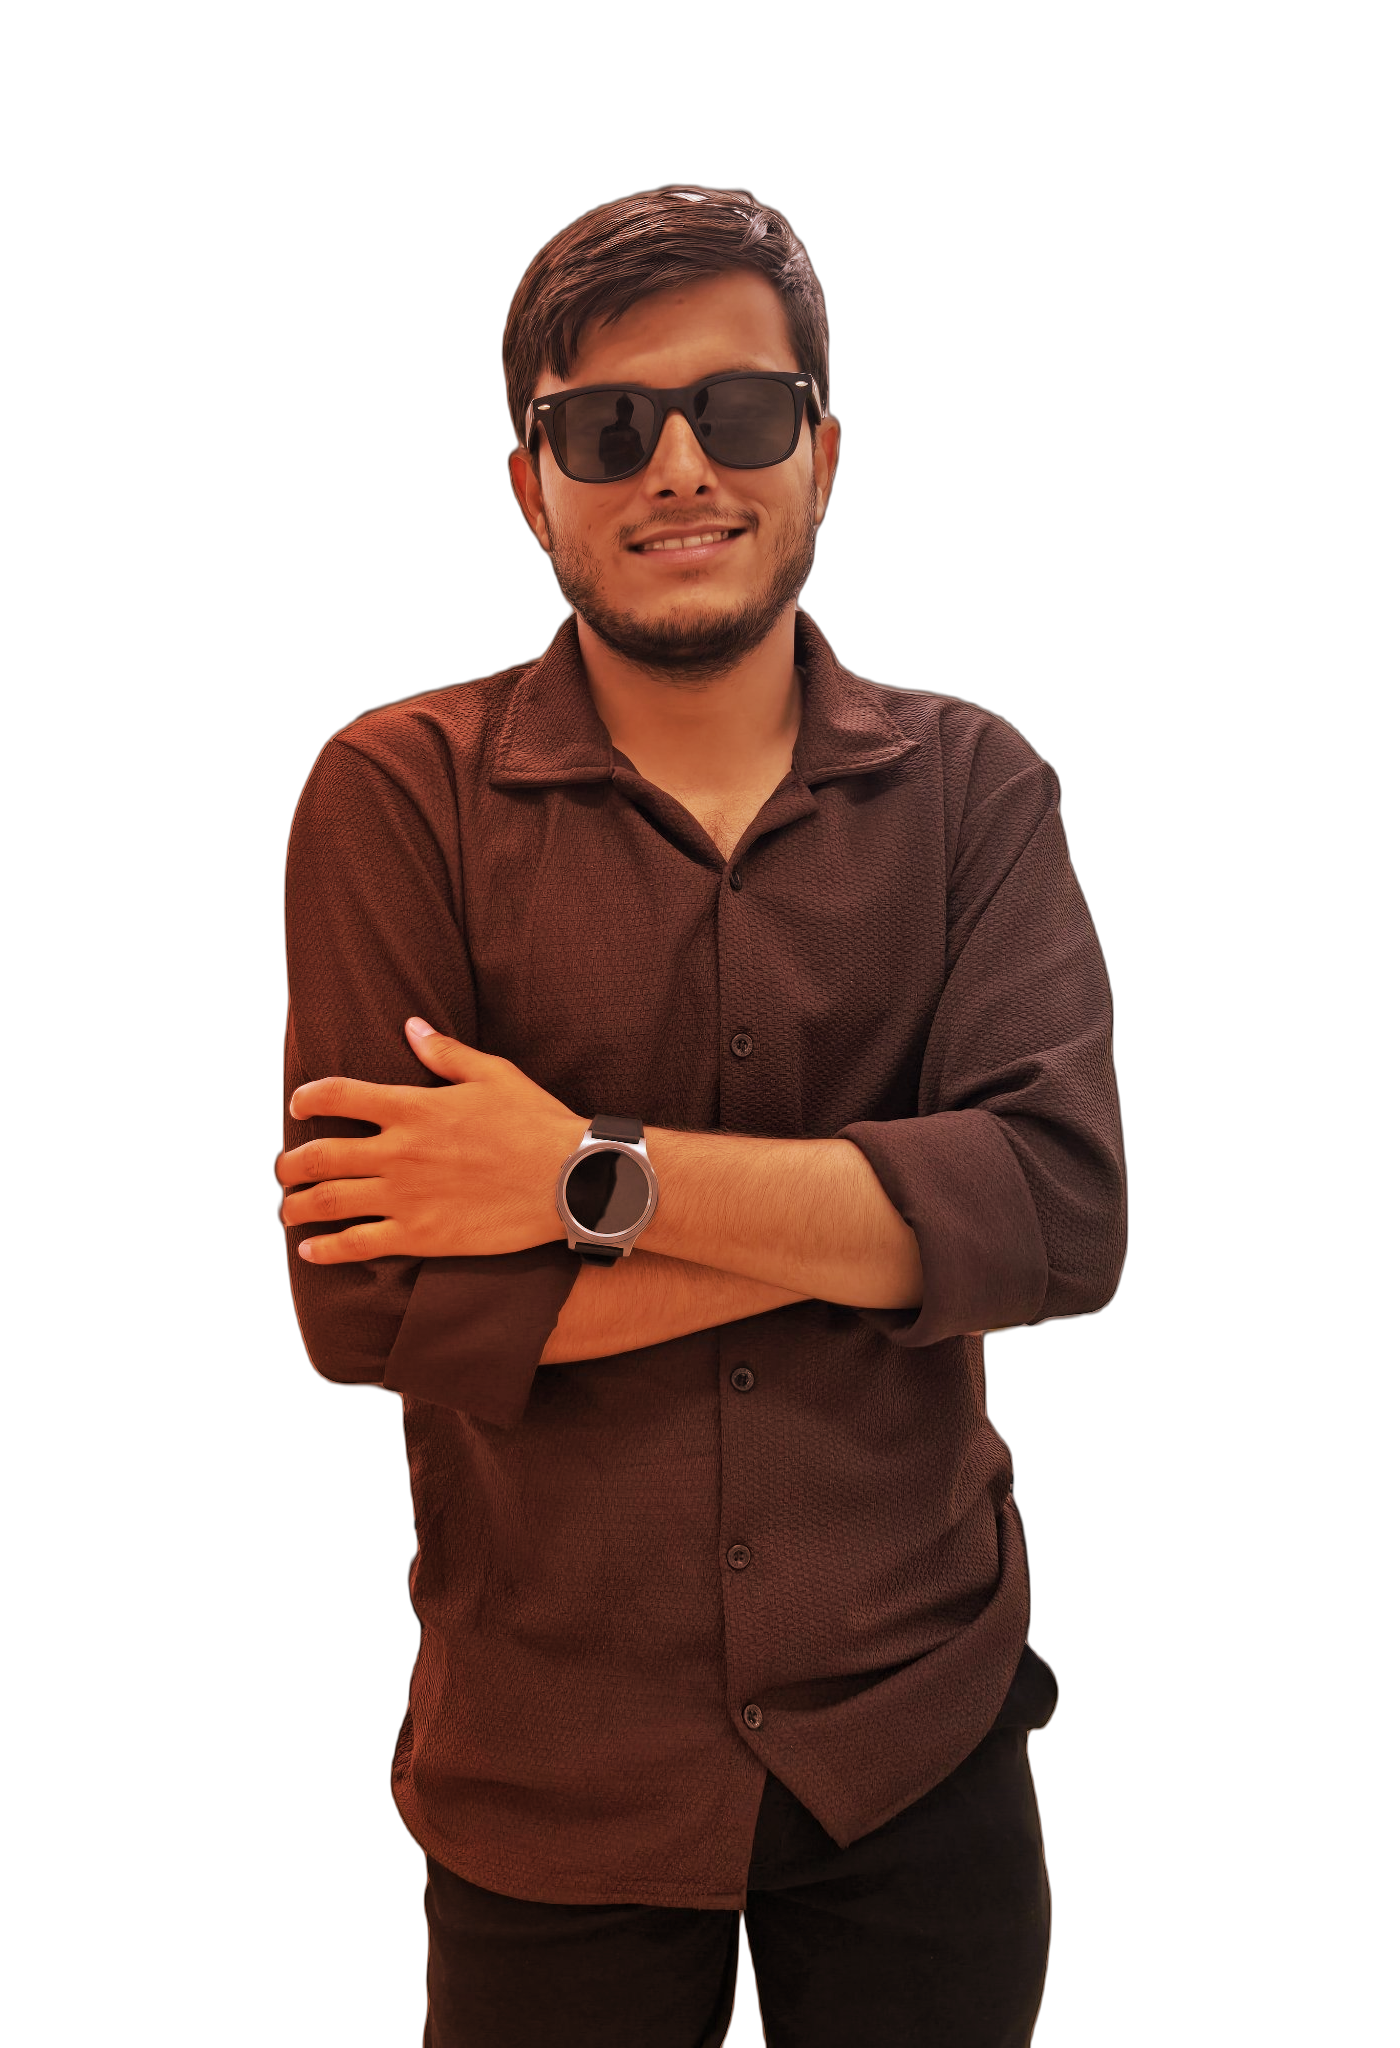
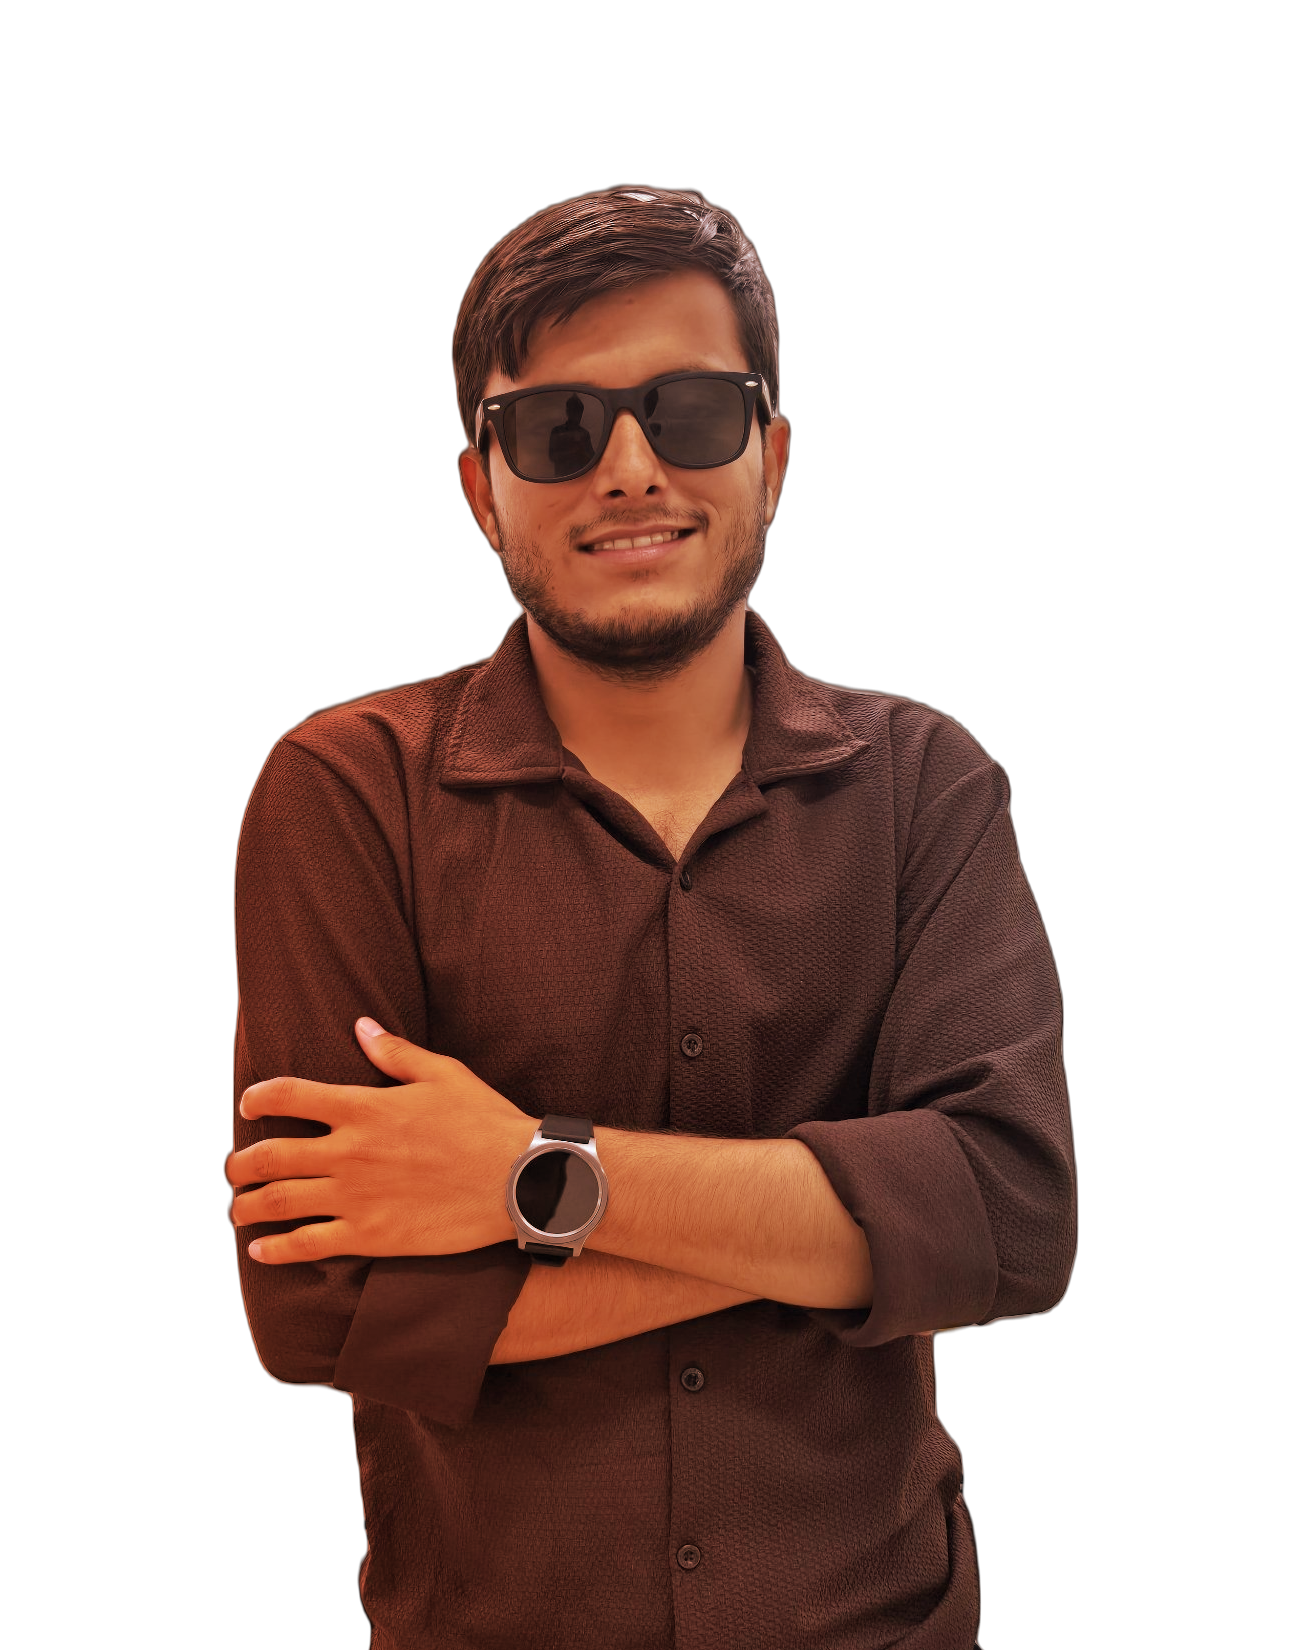
main3: zoom hero cutout and crop the bottom, hands safe

diff --git a/app/globals.css b/app/globals.css
@@ -2362,7 +2362,7 @@ p {
   width: 100%;
   height: 100%;
   object-fit: cover;
-  object-position: 68% 12%;
+  object-position: 50% 54%;
   /* The warm orange-red light is baked into the photo itself (a
      directional grade, strongest on the left, like the reference's
      edited shot) — so the filter stays neutral and only sharpens the
